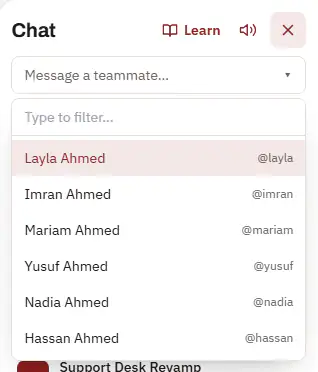
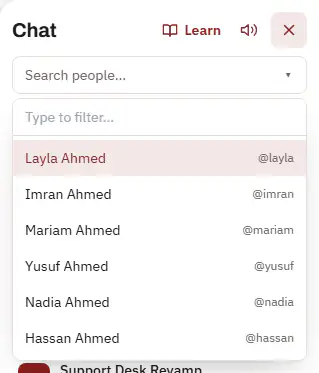
Learning Hub course: Chat's direct-message step and quiz use the New message words with a retaken picture, and Reports says who can open it (1.23.32)

diff --git a/Web Portal/backend/src/modules/training/starter/starter-courses.ts b/Web Portal/backend/src/modules/training/starter/starter-courses.ts
@@ -750,7 +750,7 @@ const reports: StarterLesson[] = [
     steps: [
       {
         title: 'Open Reports',
-        body: '<p>Click <strong>Reports</strong> in the side menu. The tiles at the top show the total tasks, how many are completed and overdue, and the on-time rate. Below them are the tasks by status and the on-time delivery.</p>',
+        body: '<p>Click <strong>Reports</strong> in the side menu (only administrators see it). The tiles at the top show the total tasks, how many are completed and overdue, and the on-time rate. Below them are the tasks by status and the on-time delivery.</p>',
         image: 'reports-page.webp',
         alt: 'The Reports page: the Export choice with Excel, PDF and CSV buttons, the Filter bar, four tiles and the Tasks by status chart.',
       },
@@ -861,9 +861,9 @@ const chat: StarterLesson[] = [
       },
       {
         title: 'Start a direct message',
-        body: '<p>Click <strong>+</strong> next to Chat and pick a teammate under <strong>Message a teammate…</strong>.</p>',
+        body: '<p>Click <strong>+</strong> (<strong>New message</strong>) next to Chat, then pick the person under <strong>Search people…</strong>. Type part of a name to find them.</p>',
         image: 'chat-direct.webp',
-        alt: 'The Message a teammate list open in Chat, showing colleagues’ names to pick from.',
+        alt: 'Chat with New message open: the Search people… box and a list of colleagues’ names and usernames to pick from.',
       },
       {
         title: 'Edit, delete or mute',
@@ -905,12 +905,12 @@ const chat: StarterLesson[] = [
     single(
       'How do you start a direct message?',
       [
-        right('Click + next to Chat and pick a teammate', 'Yes — then type and press Enter.'),
+        right('Click + (New message) next to Chat and pick the person', 'Yes — then type and press Enter.'),
         wrong('Write @ and their name in a project channel', 'That mentions them in the channel.'),
-        wrong('Open their profile in Settings', 'Use + next to Chat.'),
-        wrong('Ask an administrator to add you', 'Anyone can message a teammate.'),
+        wrong('Open their profile in Settings', 'Use + (New message) next to Chat.'),
+        wrong('Ask an administrator to add you', 'Anyone can start one with New message.'),
       ],
-      'Click + next to Chat, pick the person, then write and send.',
+      'Click + (New message) next to Chat, pick the person under Search people…, then write and send.',
     ),
     single(
       'What does the red number on Chat in the side menu mean?',

diff --git a/Web Portal/backend/src/modules/training/starter/starter-courses.test.ts b/Web Portal/backend/src/modules/training/starter/starter-courses.test.ts
@@ -280,6 +280,29 @@ describe('starter content revision 3: what the modules say', () => {
     expect(JSON.stringify(lessonsOf('module:chat'))).not.toMatch(/reaction, reply and more buttons/);
     expect(JSON.stringify(lessonsOf('module:mico-ai'))).not.toMatch(/How can I help, Omar/);
   });
+
+  it('Chat uses the 1.23.29 words: + (New message) and its Search people… picker, in the step, its picture’s description and the quiz', () => {
+    const step = guideSteps(lessonsOf('module:chat')).find((s) => s.title === 'Start a direct message')!;
+    expect(step.body).toContain('<strong>+</strong> (<strong>New message</strong>)');
+    expect(step.body).toContain('<strong>Search people…</strong>');
+    expect(step.image).toBe('chat-direct.webp');
+    expect(step.alt).toMatch(/New message/);
+    expect(step.alt).toMatch(/Search people…/);
+    const quiz = lessonsOf('module:chat').find((l) => l.kind === 'QUIZ')!;
+    const q = quiz.kind === 'QUIZ' ? quiz.quiz.questions.find((x) => x.prompt === 'How do you start a direct message?')! : null;
+    expect(q?.kind).toBe('SINGLE');
+    expect(q?.options.filter((o) => o.correct).map((o) => o.text)).toEqual(['Click + (New message) next to Chat and pick the person']);
+    expect(q?.explanation).toContain('Search people…');
+    // The words the site used before 1.23.29 are gone from the whole course.
+    expect(courseText(training())).not.toMatch(/Message a teammate|New direct message|Start one\b/);
+  });
+
+  it('Reports teaches who can open it where it is opened (the quiz asks “Who can open Reports?”)', () => {
+    const open = guideSteps(lessonsOf('module:reports')).find((s) => s.title === 'Open Reports')!;
+    expect(open.body).toMatch(/<strong>Reports<\/strong> in the side menu \(only administrators see it\)/);
+    const prompts = questions({ ...training(), lessons: lessonsOf('module:reports') }).map((q) => q.prompt);
+    expect(prompts).toContain('Who can open Reports?');
+  });
 });
 
 describe('starter content revision 3: quizzes', () => {
